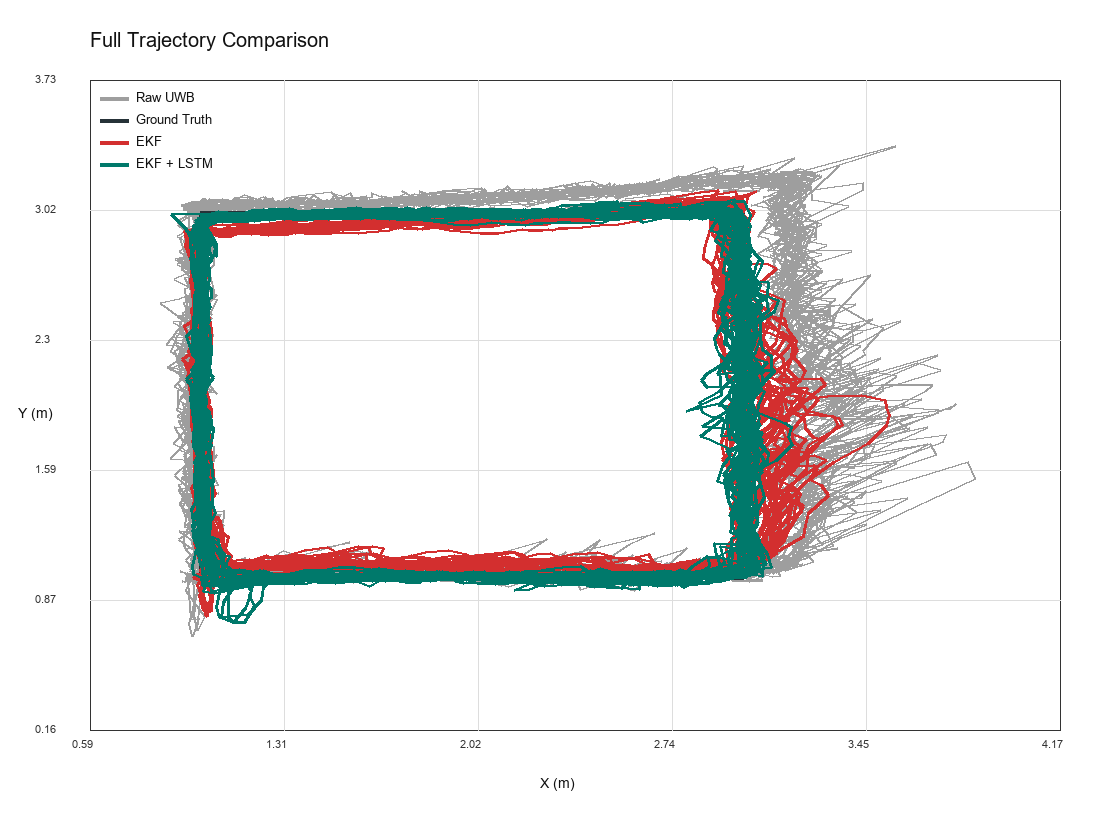
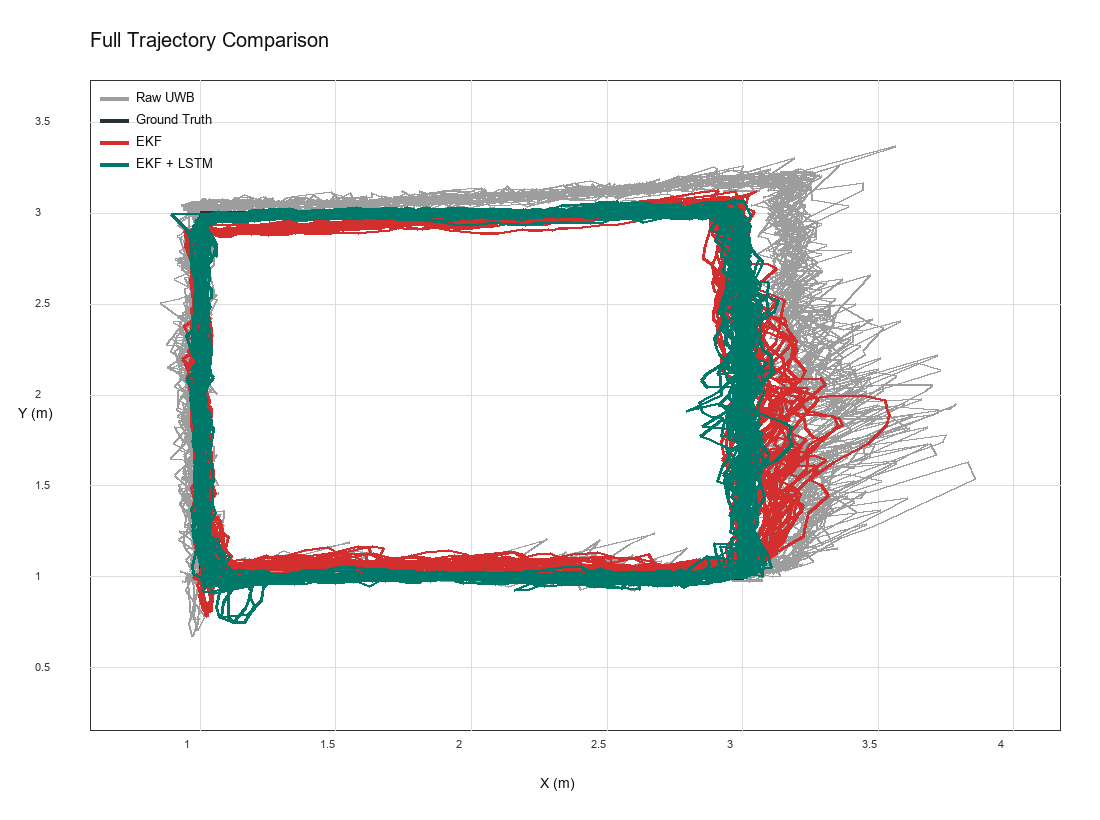
docs: regenerate trajectory grids at 0.5m

diff --git a/src/uwb_localization/plotting.py b/src/uwb_localization/plotting.py
@@ -138,23 +138,40 @@ def _draw_axes(
     x_label: str,
     y_label: str,
     bounds: tuple[float, float, float, float] | None = None,
+    tick_step_x: float | None = None,
+    tick_step_y: float | None = None,
 ) -> None:
     title_font = _font(20)
     text_font = _font(14)
     tick_font = _font(11)
     draw.rectangle([plot["left"], plot["top"], plot["right"], plot["bottom"]], outline=COLORS["axis"], width=1)
-    for i in range(6):
-        x = plot["left"] + i * (plot["right"] - plot["left"]) // 5
-        y = plot["top"] + i * (plot["bottom"] - plot["top"]) // 5
-        if 0 < i < 5:
-            draw.line([(x, plot["top"]), (x, plot["bottom"])], fill=COLORS["grid"])
-            draw.line([(plot["left"], y), (plot["right"], y)], fill=COLORS["grid"])
-        if bounds is not None:
-            x_min, x_max, y_min, y_max = bounds
-            x_value = x_min + i * (x_max - x_min) / 5
-            y_value = y_max - i * (y_max - y_min) / 5
-            draw.text((x - 18, plot["bottom"] + 8), _format_tick(x_value), fill="#333333", font=tick_font)
-            draw.text((plot["left"] - 55, y - 7), _format_tick(y_value), fill="#333333", font=tick_font)
+    if bounds is not None and tick_step_x and tick_step_y:
+        x_min, x_max, y_min, y_max = bounds
+        x_ticks = np.arange(np.ceil(x_min / tick_step_x) * tick_step_x, x_max + tick_step_x / 2, tick_step_x)
+        y_ticks = np.arange(np.ceil(y_min / tick_step_y) * tick_step_y, y_max + tick_step_y / 2, tick_step_y)
+        for x_value in x_ticks:
+            x = plot["left"] + (x_value - x_min) / (x_max - x_min) * (plot["right"] - plot["left"])
+            if x_min < x_value < x_max:
+                draw.line([(x, plot["top"]), (x, plot["bottom"])], fill=COLORS["grid"])
+            draw.text((x - 16, plot["bottom"] + 8), _format_tick(float(x_value)), fill="#333333", font=tick_font)
+        for y_value in y_ticks:
+            y = plot["bottom"] - (y_value - y_min) / (y_max - y_min) * (plot["bottom"] - plot["top"])
+            if y_min < y_value < y_max:
+                draw.line([(plot["left"], y), (plot["right"], y)], fill=COLORS["grid"])
+            draw.text((plot["left"] - 55, y - 7), _format_tick(float(y_value)), fill="#333333", font=tick_font)
+    else:
+        for i in range(6):
+            x = plot["left"] + i * (plot["right"] - plot["left"]) // 5
+            y = plot["top"] + i * (plot["bottom"] - plot["top"]) // 5
+            if 0 < i < 5:
+                draw.line([(x, plot["top"]), (x, plot["bottom"])], fill=COLORS["grid"])
+                draw.line([(plot["left"], y), (plot["right"], y)], fill=COLORS["grid"])
+            if bounds is not None:
+                x_min, x_max, y_min, y_max = bounds
+                x_value = x_min + i * (x_max - x_min) / 5
+                y_value = y_max - i * (y_max - y_min) / 5
+                draw.text((x - 18, plot["bottom"] + 8), _format_tick(x_value), fill="#333333", font=tick_font)
+                draw.text((plot["left"] - 55, y - 7), _format_tick(y_value), fill="#333333", font=tick_font)
     draw.text((plot["left"], 28), title, fill="#111111", font=title_font)
     draw.text(((plot["left"] + plot["right"]) // 2 - 35, plot["bottom"] + 45), x_label, fill="#111111", font=text_font)
     draw.text((18, (plot["top"] + plot["bottom"]) // 2), y_label, fill="#111111", font=text_font)
@@ -209,7 +226,7 @@ def plot_trajectory(
     line_data = [(label, *_finite_line(part, x_col, y_col), color, width) for label, x_col, y_col, color, width in series]
     bounds = fixed_bounds or _bounds([(x, y) for _, x, y, _, _ in line_data], equal_axis=True)
     image, draw, plot = _canvas()
-    _draw_axes(draw, plot, title, labels["x"], labels["y"], bounds)
+    _draw_axes(draw, plot, title, labels["x"], labels["y"], bounds, tick_step_x=0.5, tick_step_y=0.5)
     for _, x, y, color, width in line_data:
         _draw_line(draw, x, y, bounds, plot, color, width)
     _draw_legend(draw, [(label, color) for label, _, _, color, _ in line_data], plot)

diff --git a/scripts/09_make_equal_scale_trajectory_comparison.py b/scripts/09_make_equal_scale_trajectory_comparison.py
@@ -40,7 +40,7 @@ def main() -> None:
             output_path,
             title,
             config,
-            fixed_bounds=(0.5, 3.8, 0.5, 3.8),
+            fixed_bounds=(0.5, 4.0, 0.5, 4.0),
         )
         print(output_path.relative_to(ROOT))
 

diff --git a/README.md b/README.md
@@ -566,7 +566,8 @@ menyimpang.
 
 Perbandingan 10-loop baseline dan final menunjukkan bahwa hasil final lebih
 stabil pada lintasan test yang sama. Dua gambar ini sengaja memakai batas dan
-skala sumbu yang sama, yaitu sekitar X `0.5-3.8 m` dan Y `0.5-3.8 m`, supaya
+skala sumbu yang sama, yaitu X `0.5-4.0 m` dan Y `0.5-4.0 m` dengan interval
+grid `0.5 m`, supaya
 pergeseran lintasan dapat dibandingkan secara adil. Raw UWB masih terlihat
 berisik, tetapi output EKF + LSTM final lebih dekat ke ground truth, terutama
 pada sisi bawah, sisi kiri, dan sisi atas lintasan. Sisi kanan masih menjadi
